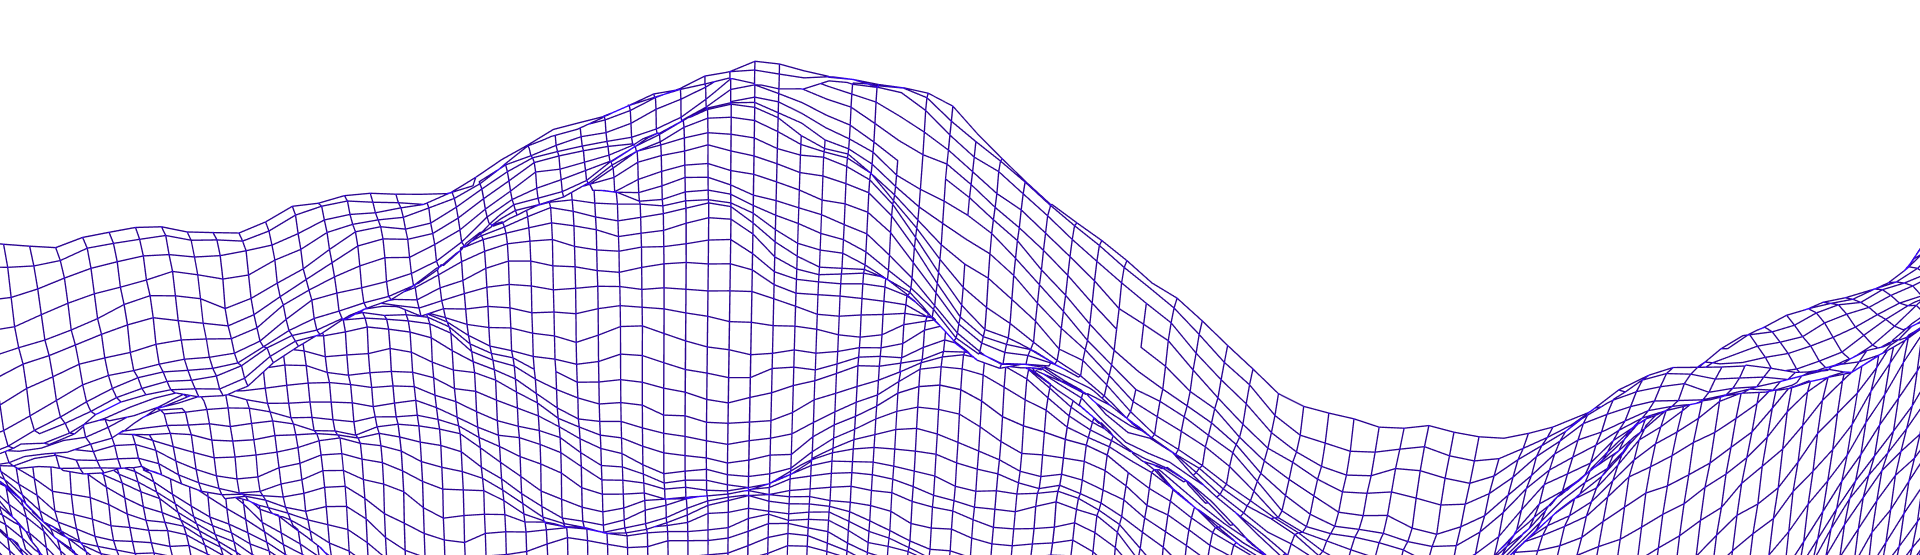
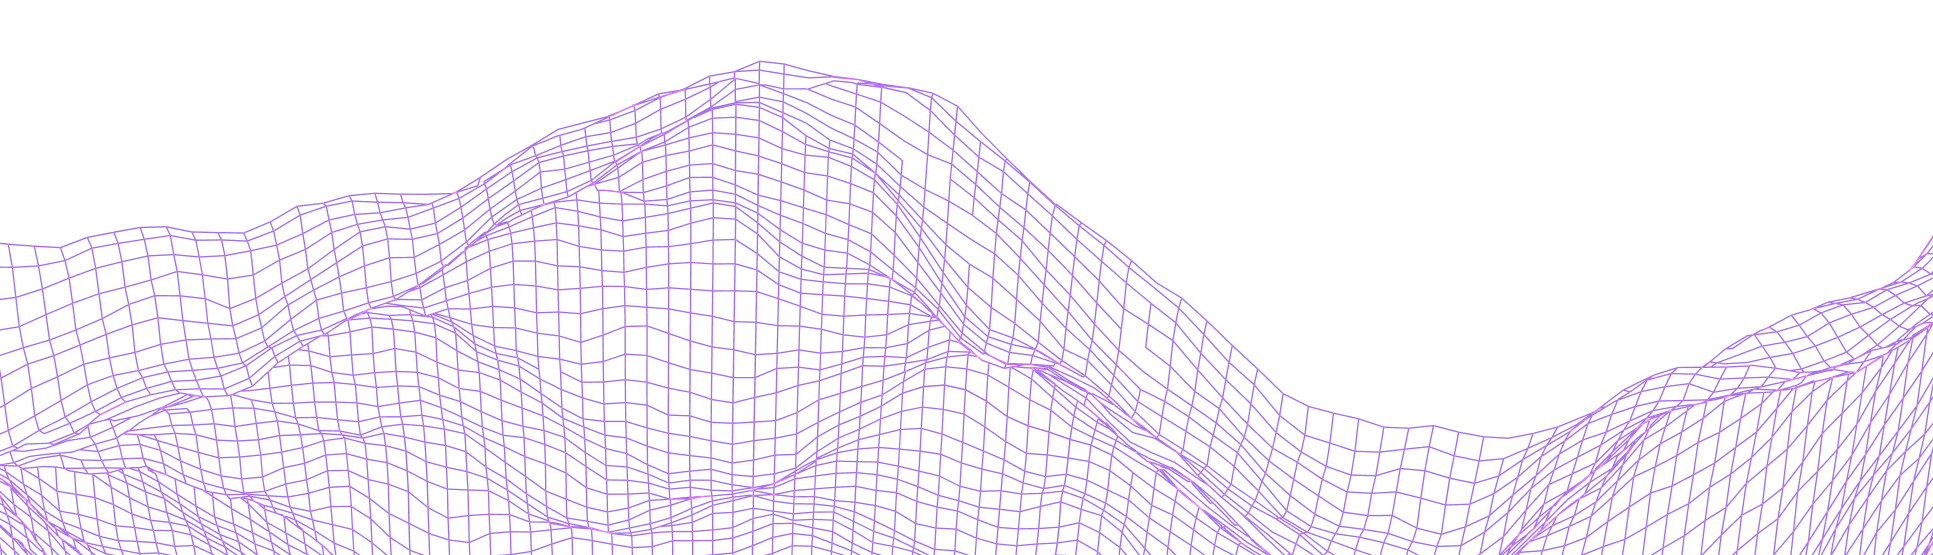
Update homepage images and styles

Changed region(s): [[0.0, 0.0919, 1.0, 1.0]]

diff --git a/docs/overrides/home.css b/docs/overrides/home.css
@@ -51,11 +51,8 @@ button {
     flex-direction: column;
     margin: 0px;
     padding: 0px;
-    /* height: 100vh; */
-    /* min-height: 100vh; */
     width: 100vw;
     scroll-behavior: smooth;
-    /* overflow-y: auto; */
     overflow-x: hidden;
     scroll-snap-type: y mandatory;
 }
@@ -67,7 +64,7 @@ button {
     position: relative;
     margin: 0;
     padding: 0;
-    background-image: linear-gradient(180deg, rgba(78,8,199,1) 0%, rgba(78,8,199,1) 30%, rgba(167,26,170,1) 70%, rgba(212,69,163,1) 100%);
+    background-image: linear-gradient(180deg, rgba(78,8,199,1) 0%, rgba(78,8,199,1) 30%, rgba(167,26,170,1) 90%, rgba(212,69,163,1) 100%);
     height: 90vh;
     width: 100%;
     display: flex;
@@ -81,26 +78,25 @@ button {
 .intro-section::before {
     content: "";
     position: absolute;
-    top: 0;
+    top: 50px;
     right: 0;
     bottom: 0;
     left: 0;
     background-image: url('./images/terrain.png');
-    opacity: 0.5;
     background-size: 100% auto;
     background-repeat: no-repeat; 
-    background-position: center 80%;
+    background-position: center 90%;
     z-index: 1;
 }
 
 .intro-section::after {
     content: "";
     position: absolute;
-    top: 70%;
+    top: 75%;
     right: 0;
     bottom: 0;
     left: 0;
-    background: linear-gradient(rgba(78,8,199,0) 0%, rgba(212,69,163,1) 50%, rgba(212,69,163,1) 100%);
+    background: linear-gradient(rgba(78,8,199,0) 0%, rgba(212,69,163,1) 80%, rgba(212,69,163,1) 100%);
     z-index: 2;
 }
 
@@ -135,8 +131,6 @@ button {
 
 .intro-right img {
     width: 90%;
-    margin-top: 400px;
-    opacity: 0.9;
 }
 
 .down-icon-button {
@@ -147,7 +141,6 @@ button {
     display: flex;
     align-items: center;
     justify-content: center;
-    /* background: linear-gradient(0deg, rgba(212,69,163,1) 0%, rgba(167,26,170,0.2) 100%); */
 }
 
 .down-icon-button img {
@@ -230,14 +223,12 @@ button {
         height: 300px;
         width: 100%;
         max-width: 500px;
-        margin-top: 50px;
     }
     
     
     .intro-right img {
         max-width: 80%;
         height: auto;
-        margin-top: 100px;
         display: block;
     }    
 
@@ -525,7 +516,7 @@ button {
 }
 
 .querybuilder-left img {
-    width: 60%;
+    width: 80%;
 }
 
 .querybuilder-right {

diff --git a/docs/overrides/home.html b/docs/overrides/home.html
@@ -279,7 +279,7 @@
             </defs>
         
             <!-- Path with Gradient Fill -->
-            <path d="M0,40 C150,100 250,0 500,40 L500,00 L0,0 Z" style="stroke: none; fill:url(#pathGradient);"></path>
+            <path d="M0,20 C150,50 250,0 500,20 L500,00 L0,0 Z" style="stroke: none; fill:url(#pathGradient);"></path>
         </svg>
       </div>
       
